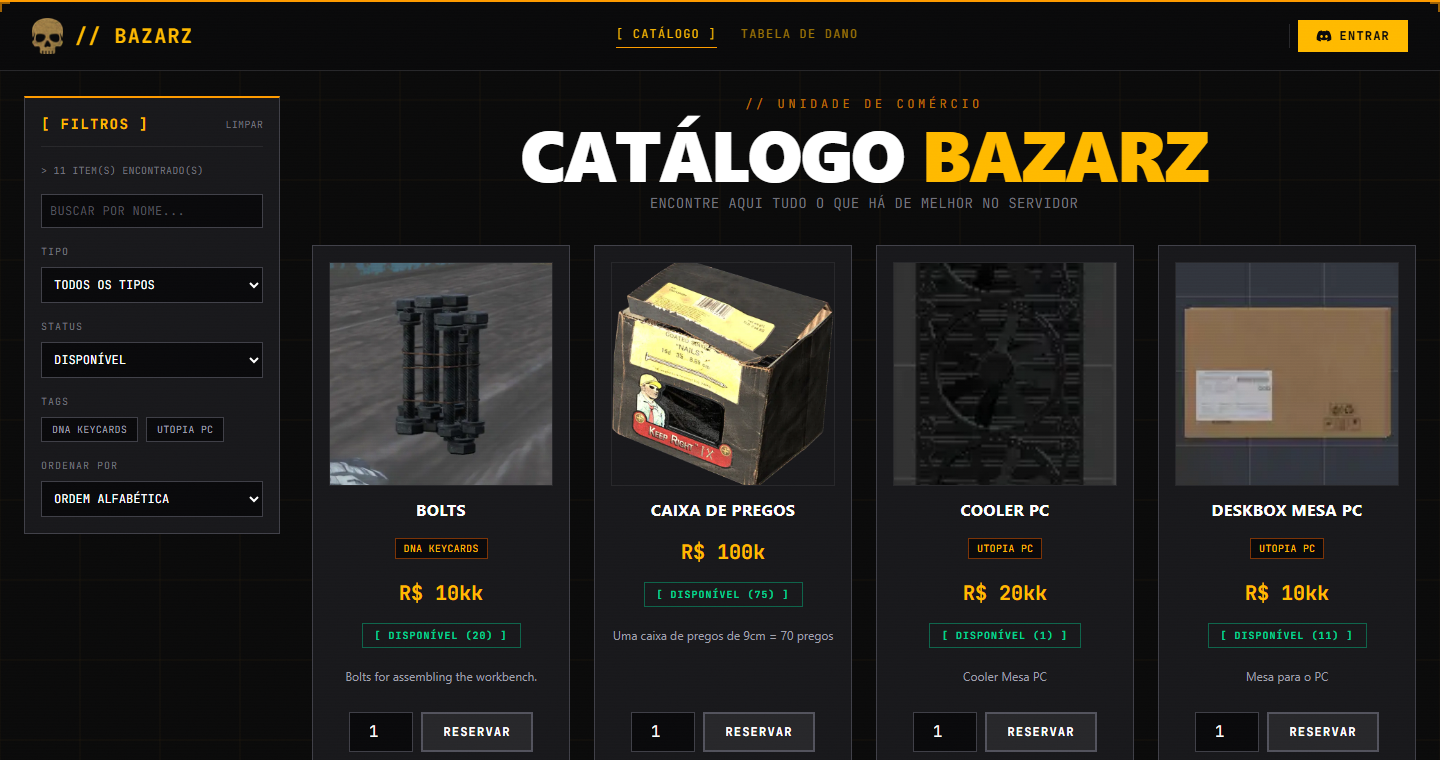
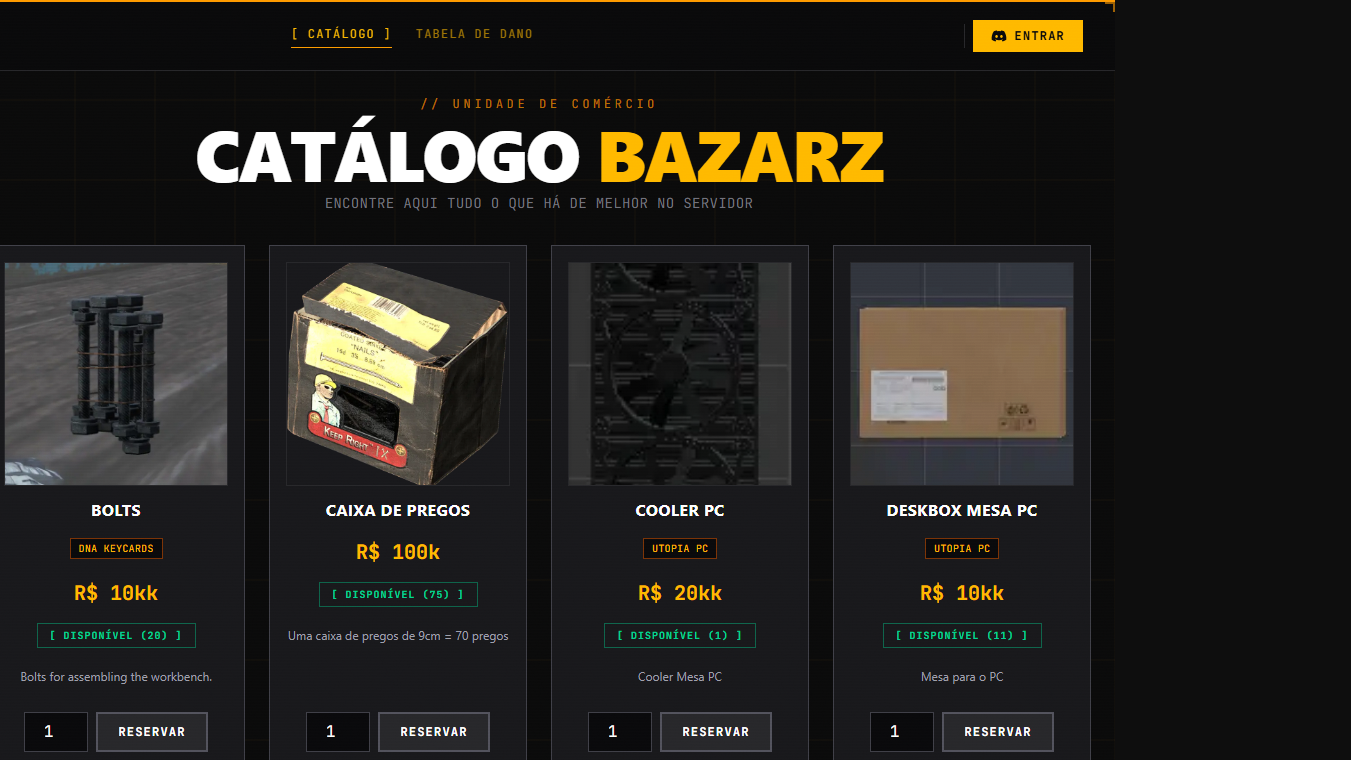
fix(projects): standardize all card covers to 16:9
One image was never going to look right across three different card
aspect ratios (21:9 featured, 16:9 compact, 16:10 gallery) plus the
detail page's own aspect-video cover. Unify every card context to
16:9 and drop the per-project coverFit overrides in favor of just
recapturing the four problem covers (AlertAI, BazarZ, Spotify Widget,
Eloo Offices) composed to that ratio directly, content centered with
margin instead of bleeding to the edges.

This is now the standard for future project covers: capture wide,
crop to 16:9, keep the important part off the edges.

diff --git a/src/components/sections/project-cards.tsx b/src/components/sections/project-cards.tsx
@@ -117,7 +117,7 @@ export function FeaturedCard({ project }: { project: ProjectMeta }) {
 				aria-label={`${project.title}: ${t("projects.viewDetails")}`}
 			/>
 
-			<ProjectThumbnail project={project} aspectClassName="aspect-[21/9]" />
+			<ProjectThumbnail project={project} aspectClassName="aspect-video" />
 
 			<div className="flex flex-col gap-4 p-4 sm:p-5">
 				<div className="flex items-start justify-between gap-3">
@@ -184,7 +184,7 @@ export function CompactCard({ project }: { project: ProjectMeta }) {
 		>
 			<ProjectThumbnail
 				project={project}
-				aspectClassName="aspect-[16/9]"
+				aspectClassName="aspect-video"
 				logoPadding="p-6"
 			/>
 
@@ -235,7 +235,7 @@ export function GalleryCard({ project }: { project: ProjectMeta }) {
 				aria-label={`${project.title}: ${t("projects.viewDetails")}`}
 			/>
 
-			<ProjectThumbnail project={project} aspectClassName="aspect-[16/10]" />
+			<ProjectThumbnail project={project} aspectClassName="aspect-video" />
 
 			<div className="flex flex-1 flex-col gap-2.5 p-4">
 				<div className="flex items-start justify-between gap-2">
